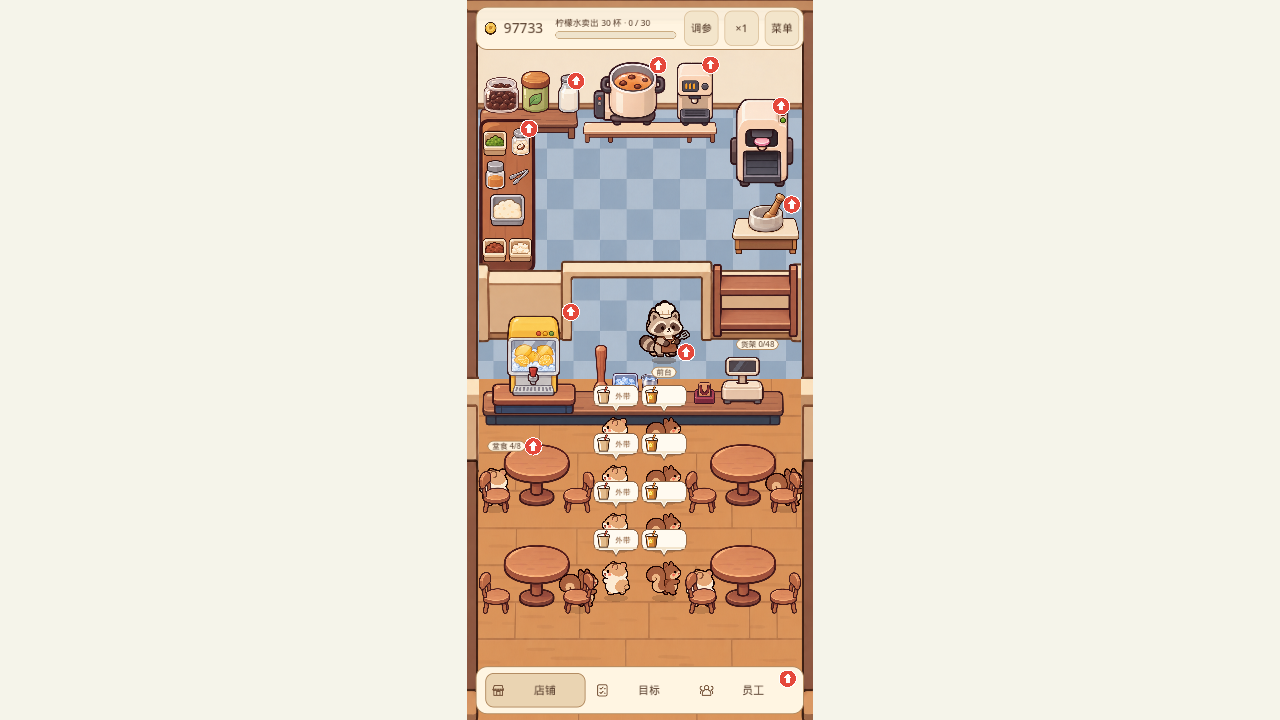
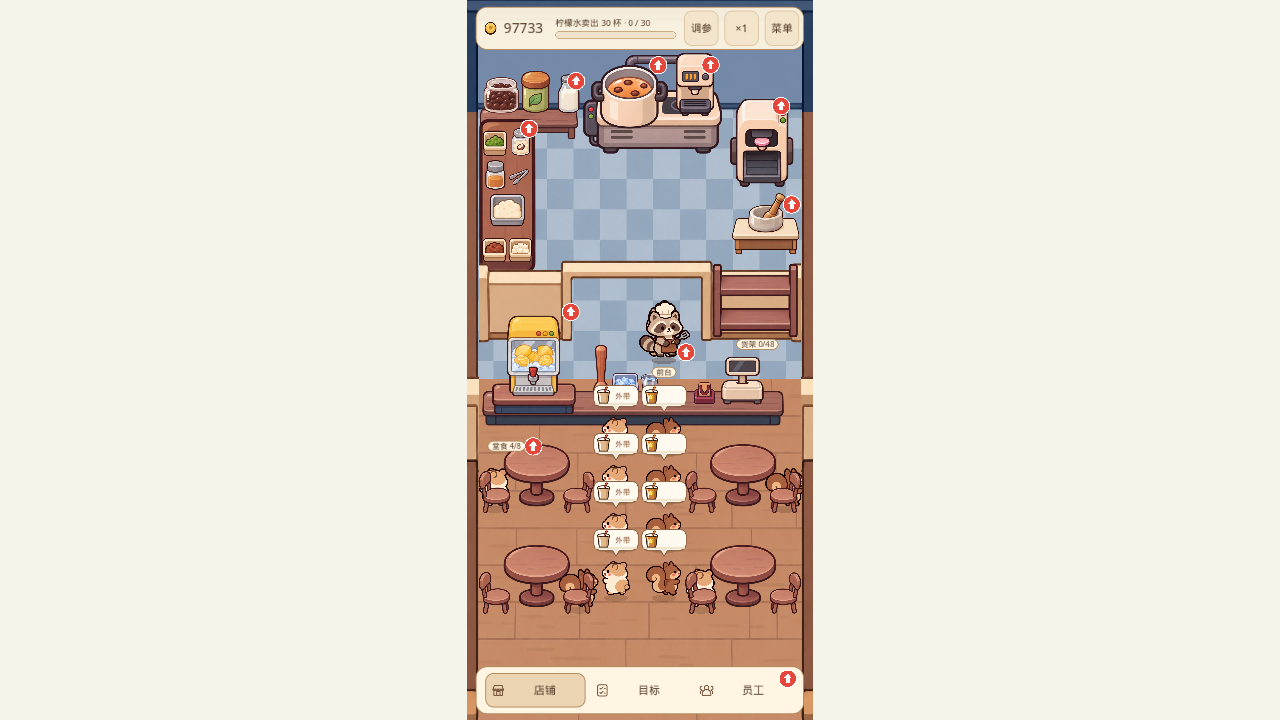
fix: restore powered brewing cabinet and rear mixer pipe from reference

Changed region(s): [[0.3438, 0.0, 0.6562, 0.2139]]

diff --git a/tools/recolor_shop_art.py b/tools/recolor_shop_art.py
@@ -1,0 +1,38 @@
+"""Apply reference palette corrections without redrawing edges, details or alpha."""
+from pathlib import Path
+
+from PIL import Image
+
+ROOT = Path(__file__).resolve().parents[1]
+SOURCES = ROOT / "art_src/shop_layout_2026_11/palette_sources"
+WOOD = ["ingredient_table", "prep_bench", "checkout", "lemonade_display_table", "rack", "dining_table", "dining_chair_left", "dining_chair_right"]
+
+
+def recolor(name: str) -> None:
+    source = Image.open(SOURCES / (name + ".png"))
+    rgba = source.convert("RGBA")
+    pixels = []
+    samples = rgba.get_flattened_data() if hasattr(rgba, "get_flattened_data") else rgba.getdata()
+    for index, (r, g, b, a) in enumerate(samples):
+        y = index // rgba.width
+        if name == "back_wall":
+            # Preserve original light/shadow differences while changing cream plaster to slate blue.
+            luminance = .2126 * r + .7152 * g + .0722 * b
+            delta = (luminance - 227) * .62
+            r, g, b = (round(base + delta) for base in (116, 137, 168))
+        elif (name != "floor" or y >= 1110) and r > g * 1.08 and g > b * .97:
+            # Warm wood keeps its grain and dark outlines; reduce bright orange saturation.
+            r, g, b = round(r * .91), round(g * .94), round(b * 1.14)
+        pixels.append((min(255, max(0, r)), min(255, max(0, g)), min(255, max(0, b)), a))
+    rgba.putdata(pixels)
+    output = rgba.convert(source.mode)
+    assert output.size == source.size
+    if source.mode == "RGBA":
+        assert output.getchannel("A").tobytes() == source.getchannel("A").tobytes()
+    output.save(ROOT / "art/reference" / (name + ".png"))
+    print(name, source.size, "palette only; alpha and geometry preserved")
+
+
+if __name__ == "__main__":
+    for asset in ["back_wall", "floor", *WOOD]:
+        recolor(asset)

diff --git a/tools/export_shop_art.py b/tools/export_shop_art.py
@@ -18,7 +18,7 @@ def export(row, baseline):
     source = source.crop(bbox)
     original = baseline.get(destination.name)
     width, height = original["size"] if original else row["size"]
-    bounds = original["alpha_bbox"] if original else [int(width * .03), int(height * .03), int(width * .97), int(height * .97)]
+    bounds = row.get("fit_bounds", original["alpha_bbox"] if original else [int(width * .03), int(height * .03), int(width * .97), int(height * .97)])
     left, top, right, bottom = bounds
     factor = min((right - left) / source.width, (bottom - top) / source.height)
     size = (max(1, round(source.width * factor)), max(1, round(source.height * factor)))
@@ -38,4 +38,8 @@ if __name__ == "__main__":
     data = json.loads(args.manifest.read_text(encoding="utf-8"))
     baseline = json.loads(Path("art_src/shop_layout_2026_11/baseline-sizes.json").read_text(encoding="utf-8"))
     results = [export(row, baseline) for row in data["assets"]]
+    if data.get("apply_reference_palette", False):
+        from recolor_shop_art import WOOD, recolor
+        for asset in ["back_wall", "floor", *WOOD]:
+            recolor(asset)
     print(json.dumps(results, ensure_ascii=False, indent=2))

diff --git a/docs/qa/2026-11-02-shop-layout/README.md b/docs/qa/2026-11-02-shop-layout/README.md
@@ -14,7 +14,7 @@
 - 四张圆桌、八把独立椅子，显示实际堂食占用；各家具、机器和桌面工具独立。
 - 新前厅柠檬手打台：柠檬水由前台员工送入新台，人工手打成柠檬茶，再交付顾客。后厨手打台图片保留，香蕉茶继续由后厨制作。
 - 玻璃隔板默认隐藏，菜单可切换，视觉开关不影响经营状态。
-- 按组生成素材页再拆图；16 张替换图片与 origin/main 原尺寸逐一核对一致，32 件生成成品和额外玻璃隔板均为独立透明 PNG。
+- 按组生成素材页再拆图；16 张替换图片与 origin/main 原尺寸逐一核对一致，33 件生成成品和额外玻璃隔板均为独立透明 PNG。
 - 旧存档迁移保留经营、顾客和员工；退还失效柠檬配料升级费用，恢复被新柜台阻断的待派遣/在岗员工，保留有效任务和在途库存。
 
 ## 验证
@@ -31,3 +31,11 @@ Godot 4.6.3，完整 `tests/run_all.gd`：109 用例，0 失败。
 另经独立审查，已复现并修复旧版待派遣员工被新柜台隔断的问题；复核后待派遣/在岗员工均能恢复黑茶制作，库存审计通过。381 组非法存档字段输入均拒绝且没有运行时错误。
 
 素材尺寸/透明通道报告见 `art_src/shop_layout_2026_11/export-verification.json`；源图、提示词与可重复拆分命令见该目录 README。
+
+## 煮茶设备修正
+
+根据后续确认，锅下方为带供电控制区、散热槽和厚柜体的加热工作柜，替换薄木桌。锅、调奶机及独立后连接管同页绘制后拆分；管子位于两台机器后方，随调奶机解锁显示。原有三张替换图的像素宽高不变。
+
+后墙与木质家具仅进行参考色调校正，保留全部纹理、形状和透明通道；原图与确定性调色工具均保存在项目中。
+
+新增原生回归核对柜体厚度、机器落台、管子两端连接、遮挡顺序及解锁显隐；测试先因缺少管子而失败，接入后通过。完整 109 用例及四项原生界面检查复跑均无失败。

diff --git a/art_src/shop_layout_2026_11/README.md b/art_src/shop_layout_2026_11/README.md
@@ -8,6 +8,14 @@
 python tools/export_shop_art.py art_src/shop_layout_2026_11/manifest.json
 ```
 
-导出仅裁取指定独立区域，以等比例缩放和透明留白放入既有画布，不把杯子、人物或桌面配料合进家具。源素材目录通过 `.gdignore` 排除 Godot 导入，游戏只使用成品。
+导出仅裁取指定独立区域，以等比例缩放和透明留白放入既有画布，不把杯子、人物或桌面配料合进家具。个别画布允许 `fit_bounds` 修正可见物体比例，同时保持文件像素宽高不变。源素材目录通过 `.gdignore` 排除 Godot 导入，游戏只使用成品。
+
+2026-11-03 修正：煮茶机底座按供电加热工作柜绘制，煮茶锅、调奶机和独立后方连接管与柜体同页生成，见 `sheet-powered-brewing.json`。旧薄木桌已替换；连接管随调奶设备解锁，单独分层置于两台机器后方。
+
+墙面和木质部分仅按参考图调色，不重新生成图片。`palette_sources/` 保留调色前原图；`tools/recolor_shop_art.py` 保留原有尺寸、几何与透明通道，使用确定性的像素变换将奶油墙改为蓝灰墙、降低木色的橙色饱和度。主 manifest 导出后会自动应用同一调色流程，也可单独执行：
+
+```sh
+python tools/recolor_shop_art.py
+```
 
 锅对应煮茶机 `boil`，参考图上的机器文字不作为游戏功能命名。前厅 `lemon_front` 是柠檬水到柠檬茶的独立手打工位；后厨 `press` 图片保留。
